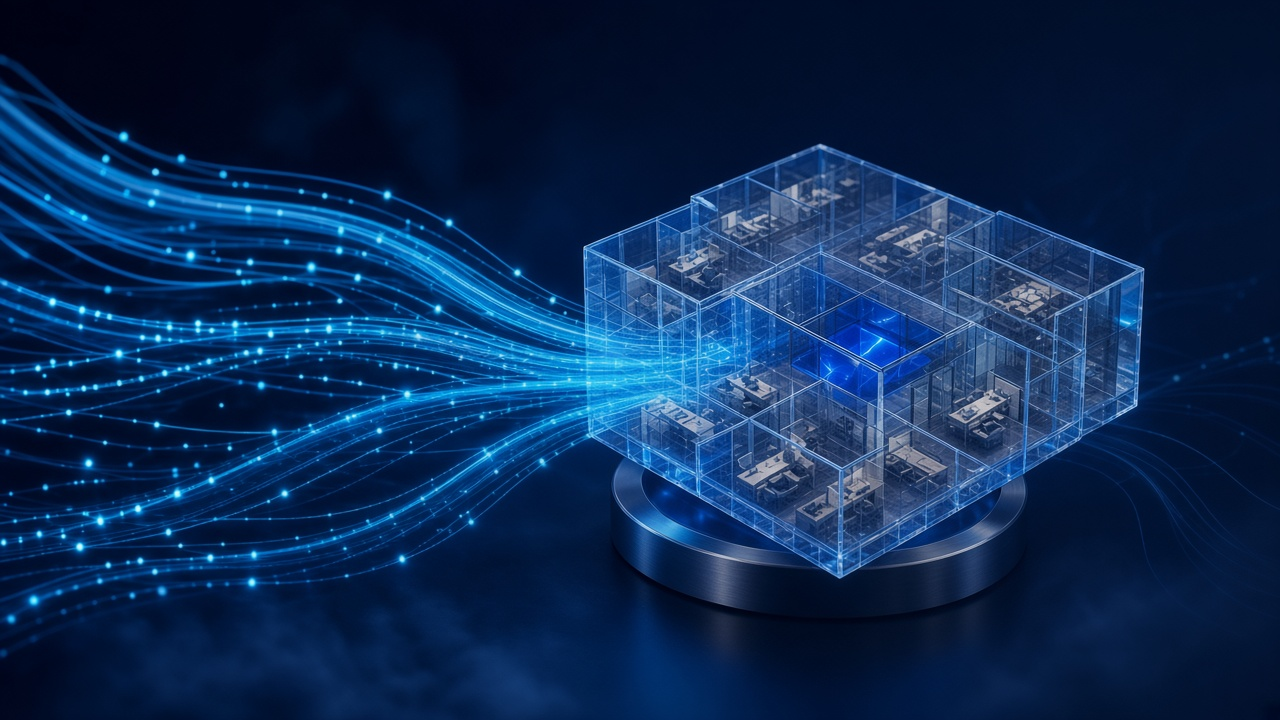
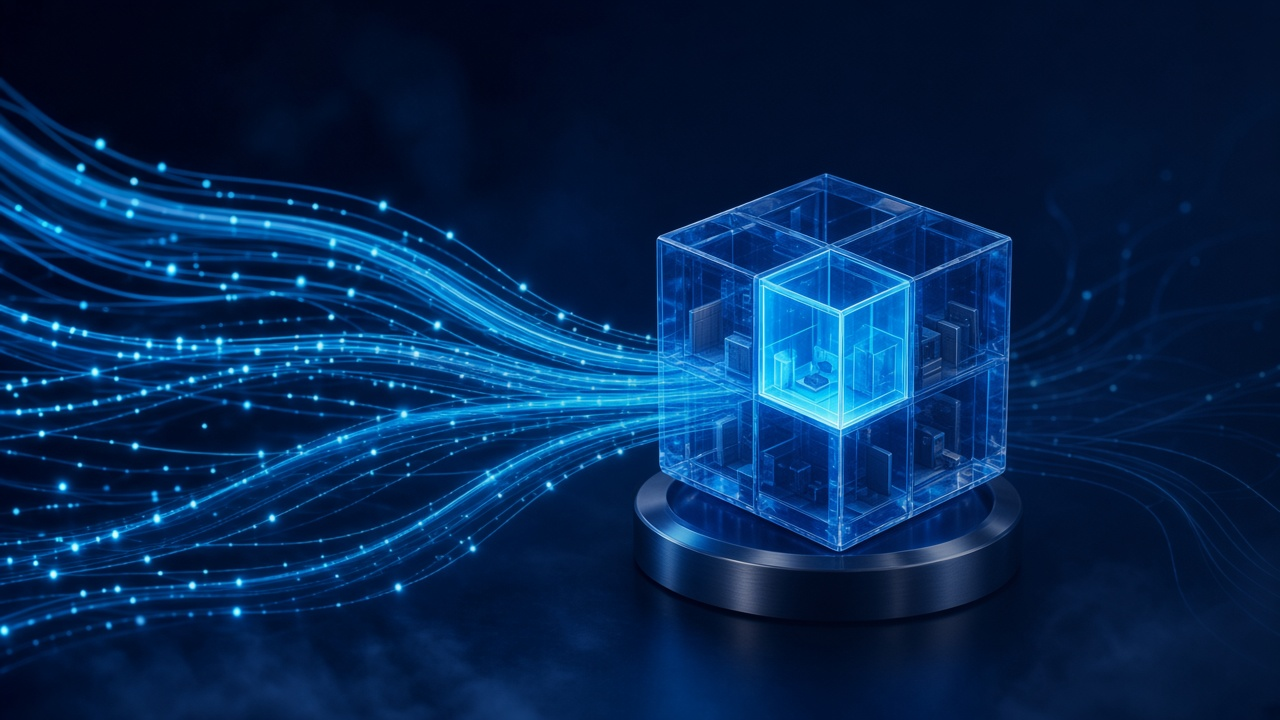
Update media assets in Approach component to use the correct image source. Enhance blog prompts and alt text for clarity, introducing a new marketing-focused description style. Add new images for approach, careers, and contact sections while updating existing blog images for consistency.

diff --git a/content/media.ts b/content/media.ts
@@ -1,14 +1,11 @@
 /**
  * Media assets for UI.
- * Replace `src` with the matching `path` file after ChatGPT generation.
- * Keep `prompt` as the generation source of truth; `path` is where to save.
+ * Marketing-stock aesthetic: clear subject, polished, readable ? not busy CGI.
  */
 
 export type MediaAsset = {
   id: string;
-  /** Current placeholder (remote or local) shown faded behind the prompt UI */
   src: string;
-  /** Canonical save path under /public (also the final src once ready) */
   path: string;
   poster?: string;
   prompt: string;
@@ -16,7 +13,16 @@ export type MediaAsset = {
 };
 
 const BRAND =
-  "Brand palette only: deep navy #051937, cyan #00D2FF, royal blue #1E60FF. No purple, no neon glow stacks, no logos, no readable brand names or UI text, no watermarks.";
+  "Brand accents only when needed: deep navy #051937, cyan #00D2FF, royal blue #1E60FF. No purple, no logos, no readable UI text, no watermarks.";
+
+const TEAM =
+  "Cast only young white American men ages ~25-32, clean-cut tech professionals. No women, no other ethnicities.";
+
+const MARKETING_PHOTO =
+  "Premium SaaS marketing stock photograph style like Stripe/Notion/Linear careers pages: bright modern office, soft natural light, sharp focus on subjects, clean background, clear readable scene, professional color grade. Not cinematic fog, not dark moody drama.";
+
+const MARKETING_ABSTRACT =
+  "Premium SaaS marketing illustration style: one clear hero object centered, simple readable metaphor, soft studio lighting on deep navy #051937, subtle cyan #00D2FF and royal #1E60FF accents, polished 3D, plenty of calm empty space. Clean and premium like Stripe/Linear marketing art ? NOT busy particle storms, NOT dense lattices, NOT empty lonely cubes.";
 
 export const media = {
   heroVideo: {
@@ -25,121 +31,121 @@ export const media = {
     path: "/media/heroes/hero-poster.jpg",
     poster:
       "https://images.unsplash.com/photo-1522071820081-009f0129c71c?auto=format&fit=crop&w=1920&q=80",
-    prompt: `Still poster frame, 16:9, for a TalentTekPro hero video. Pure cinematic 3D CGI motion graphics still: deep navy void #051937, luminous geometric core with a cyan #00D2FF wireframe icosahedron nested in a royal-blue #1E60FF glass nucleus, three thin orbital rings, constellation of linked nodes (talent network becoming delivery lattice). Depth fog, volumetric cyan rim light, soft particle dust. Left third darker and emptier for headline overlay; spectacle center-right. Elegant, premium, photoreal metal/glass materials. ${BRAND}`,
-    alt: "Abstract 3D talent-to-delivery orbital lattice for TalentTekPro.",
+    prompt: `Unused on site. ${BRAND}`,
+    alt: "Hero poster placeholder.",
   } satisfies MediaAsset,
   landing: {
     id: "landing",
     src: "/media/heroes/landing.png",
     path: "/media/heroes/landing.png",
-    prompt: `Editorial photoreal hero photograph, 16:9 (or taller crop-safe). Small diverse product squad collaborating around a laptop in a bright modern office with soft natural light and subtle cyan #00D2FF practical accents against deeper navy shadow #051937. Confident, senior, calm energy. Subjects mid-conversation, no staged handshake cliche. Space on the left for website headline overlay. Shallow depth of field, premium tech-company look. ${BRAND}`,
-    alt: "TalentTekPro teammates collaborating at a laptop in a bright office.",
+    prompt: `Premium SaaS marketing hero photograph, 16:9. Bright modern tech office. A beautiful young woman developer collaborating with two young male developers around one laptop. Soft natural light, clear faces, left third open for headline. No logos, no readable UI text. ${BRAND}`,
+    alt: "A woman developer collaborating with teammates at a laptop.",
   } satisfies MediaAsset,
   manifesto: {
     id: "manifesto",
     src: "/media/heroes/manifesto.jpg",
     path: "/media/heroes/manifesto.jpg",
-    prompt: `Editorial photograph, 16:9. Cross-functional workshop in a modern office: senior engineers and a hiring lead reviewing a laptop and whiteboard together. Soft cyan #00D2FF accent lighting, deep navy shadows #051937, shallow depth of field, cinematic grading. Confident collaborative mood, diverse professionals, documentary realism. ${BRAND}`,
-    alt: "Cross-functional workshop reviewing plans on a laptop and whiteboard.",
+    prompt: `${MARKETING_PHOTO} ${TEAM} Two young white American men reviewing a laptop at a clean whiteboard in a bright office. Clear, simple marketing stock composition. 16:9. ${BRAND}`,
+    alt: "Two young white American engineers reviewing a laptop.",
   } satisfies MediaAsset,
   approach: {
     id: "approach",
-    src: "https://images.unsplash.com/photo-1522071820081-009f0129c71c?auto=format&fit=crop&w=1600&q=80",
+    src: "/media/heroes/approach.jpg",
     path: "/media/heroes/approach.jpg",
-    prompt: `Editorial photograph, 3:2. Two professionals sharing a genuine high-five in a bright modern office after a milestone, collaborative energy, soft natural light mixed with subtle cyan #00D2FF accents, navy depth in background #051937. Photoreal, warm but premium, no staged stock smile. ${BRAND}`,
-    alt: "Teammates celebrating with a high-five in a bright office.",
+    prompt: `${MARKETING_PHOTO} ${TEAM} Two young white American men smiling and high-fiving in a bright modern office after a win. Clear simple stock photo. 16:9. ${BRAND}`,
+    alt: "Two young white American teammates celebrating with a high-five.",
   } satisfies MediaAsset,
   getStarted: {
     id: "get-started",
     src: "/media/heroes/get-started.jpg",
     path: "/media/heroes/get-started.jpg",
-    prompt: `Editorial photograph, 16:9. Enterprise leadership consultation in a deep navy conference room #051937, cyan #00D2FF and royal #1E60FF practical lights, people leaning over a shared screen, hopeful decisive mood, wide cinematic frame. ${BRAND}`,
-    alt: "Leadership consultation around a shared screen.",
+    prompt: `${MARKETING_PHOTO} ${TEAM} Two young white American men leaning over a laptop on a meeting table in a bright glass conference room. Clear, hopeful CTA photo. 16:9. ${BRAND}`,
+    alt: "Young white American teammates reviewing a laptop in a meeting room.",
   } satisfies MediaAsset,
   servicesHero: {
     id: "services-hero",
     src: "/media/heroes/services-hero.png",
     path: "/media/heroes/services-hero.png",
-    prompt: `Premium 3D CGI editorial illustration matching TalentTekPro blog covers: cinematic dark navy #051937 atmosphere, soft volumetric fog, photoreal glass and metal. A luminous translucent cyan crystalline core on a brushed metal pedestal, fed by flowing cyan fiber-optic light streams with bright data sparkles. Concept: talent network merging into delivery systems. No people, no text, no logos. ${BRAND}`,
-    alt: "A luminous cyan crystalline core fed by light streams on deep navy.",
+    prompt: `${MARKETING_ABSTRACT} Meaning: talent plus delivery. A single elegant glass sphere on the left connected by one clean cyan arc to a single royal-blue geometric module on the right ? two clear shapes, one connection. Soft studio light, deep navy background. 16:9. ${BRAND}`,
+    alt: "A glass sphere connected by a cyan arc to a royal-blue module.",
   } satisfies MediaAsset,
   processHero: {
     id: "process-hero",
     src: "/media/heroes/process-hero.jpg",
     path: "/media/heroes/process-hero.jpg",
-    prompt: `Documentary editorial photograph, 16:9. Client partnership strategy workshop around a wide table, laptops open, facilitator at a whiteboard, natural light mixed with cyan #00D2FF practical accents, navy depth #051937. Serious, calm, senior energy. ${BRAND}`,
-    alt: "Strategy workshop with laptops and whiteboard facilitation.",
+    prompt: `${MARKETING_PHOTO} ${TEAM} Three young white American men in a bright meeting room: two seated with laptops, one standing at a clean whiteboard. Clear marketing stock scene. 16:9. ${BRAND}`,
+    alt: "Young white American team in a bright strategy meeting.",
   } satisfies MediaAsset,
   aboutHero: {
     id: "about-hero",
     src: "/media/heroes/about-hero.jpg",
     path: "/media/heroes/about-hero.jpg",
-    prompt: `Editorial photograph, 16:9. Consulting session with enterprise leadership in a dark modern boardroom, teal glass reflection, cyan #00D2FF rim light, deep navy #051937 atmosphere, photoreal, composed and senior. ${BRAND}`,
-    alt: "Leadership consulting session in a modern boardroom.",
+    prompt: `${MARKETING_PHOTO} ${TEAM} Three young white American men in a bright modern boardroom around a table, talking calmly. Clear corporate marketing stock. 16:9. ${BRAND}`,
+    alt: "Young white American leaders in a bright boardroom.",
   } satisfies MediaAsset,
   careersHero: {
     id: "careers-hero",
-    src: "https://images.unsplash.com/photo-1522071820081-009f0129c71c?auto=format&fit=crop&w=1600&q=80",
+    src: "/media/heroes/careers-hero.jpg",
     path: "/media/heroes/careers-hero.jpg",
-    prompt: `Editorial photograph, 16:9. Engineering team collaborating in a bright-dark hybrid office, candid discussion at desks, teal/cyan ambient light #00D2FF, navy shadows #051937, diverse professionals, authentic workplace energy. ${BRAND}`,
-    alt: "Collaborative engineering team working together.",
+    prompt: `${MARKETING_PHOTO} ${TEAM} Three young white American men working together at standing desks in a bright open office. Clear friendly careers marketing photo. 16:9. ${BRAND}`,
+    alt: "Young white American engineers working together in a bright office.",
   } satisfies MediaAsset,
   blogHero: {
     id: "blog-hero",
     src: "/media/blog/journal-hero.png",
     path: "/media/blog/journal-hero.png",
-    prompt: `Editorial blog journal hero illustration, 16:9. Deep navy ink background #051937. Abstract field-notes concept: floating luminous pages and geometric research nodes connected by cyan #00D2FF filaments with royal blue #1E60FF accents, suggesting talent and delivery knowledge. Premium flat/editorial hybrid CGI. No people. ${BRAND}`,
-    alt: "Abstract journal field-notes illustration in navy, cyan, and royal blue.",
+    prompt: `${MARKETING_ABSTRACT} Meaning: journal / field notes. One soft luminous frosted page floating above one small cyan node cluster. Very clear, simple, premium. Deep navy background. 16:9. ${BRAND}`,
+    alt: "A single luminous page above a small cyan node cluster.",
   } satisfies MediaAsset,
   projectsHero: {
     id: "projects-hero",
     src: "/media/heroes/projects-hero.jpg",
     path: "/media/heroes/projects-hero.jpg",
-    prompt: `Premium 3D CGI editorial illustration matching TalentTekPro blog covers: cinematic dark navy #051937 atmosphere, soft fog, photoreal glass and metal. A luminous translucent cyan crystalline structure on a brushed metal pedestal with flowing cyan light filaments and data sparkles. Concept: portfolio of shipped systems. No people, no text, no logos. ${BRAND}`,
-    alt: "A luminous cyan crystalline portfolio core with light streams on deep navy.",
+    prompt: `${MARKETING_ABSTRACT} Meaning: portfolio. Three frosted glass portfolio cards floating in a neat row, soft cyan edge light, one card slightly forward with royal-blue accent. Clear, orderly, premium marketing art. Deep navy background. 16:9. ${BRAND}`,
+    alt: "Three frosted glass portfolio cards in a neat floating row.",
   } satisfies MediaAsset,
   contactHero: {
     id: "contact-hero",
-    src: "https://images.unsplash.com/photo-1497366216548-37526070297c?auto=format&fit=crop&w=1600&q=80",
+    src: "/media/heroes/contact-hero.jpg",
     path: "/media/heroes/contact-hero.jpg",
-    prompt: `Editorial photograph, 16:9. Calm reception desk in a modern tech office at night, soft cyan #00D2FF glow, welcoming empty space, deep navy #051937 atmosphere, quiet and premium. ${BRAND}`,
-    alt: "Modern office reception area at night.",
+    prompt: `${MARKETING_PHOTO} Bright modern office reception desk, empty and welcoming, soft daylight, clean architecture, cyan accent on a small desk lamp. No crowds. Clear contact marketing photo. 16:9. ${BRAND}`,
+    alt: "Bright welcoming office reception desk.",
   } satisfies MediaAsset,
   cases: [
     {
       id: "case-dating",
       src: "/media/cases/case-dating.png",
       path: "/media/cases/case-dating.png",
-      prompt: `Premium 3D CGI editorial illustration matching TalentTekPro blog covers: dark navy #051937, soft fog, photoreal glass/metal pedestal. Luminous translucent cyan crystalline twin-core with flowing cyan light streams and sparkles. Matching/connections theme. No people, no text, no logos. ${BRAND}`,
-      alt: "Twin luminous cyan crystalline cores linked by light streams on deep navy.",
+      prompt: `${MARKETING_ABSTRACT} Meaning: matching. Two soft glowing orbs connected by one clean cyan bridge to a shared center. Extremely clear, simple, premium. Deep navy. 16:9. ${BRAND}`,
+      alt: "Two glowing orbs connected by a cyan bridge.",
     },
     {
       id: "case-healthcare",
       src: "/media/cases/case-healthcare.png",
       path: "/media/cases/case-healthcare.png",
-      prompt: `Premium 3D CGI editorial illustration matching TalentTekPro blog covers: dark navy #051937, soft fog, photoreal glass/metal pedestal. Luminous translucent cyan crystalline shield-core with calm cyan light streams and sparkles. Healthcare ops theme. No people, no text, no logos. ${BRAND}`,
-      alt: "A luminous cyan crystalline shield-core with light streams on deep navy.",
+      prompt: `${MARKETING_ABSTRACT} Meaning: healthcare trust. One clear translucent shield shape with a soft cyan rim and calm royal-blue center glow. Simple and readable. Deep navy. 16:9. ${BRAND}`,
+      alt: "A clear translucent shield with a soft cyan rim.",
     },
     {
       id: "case-commerce",
       src: "/media/cases/case-commerce.png",
       path: "/media/cases/case-commerce.png",
-      prompt: `Premium 3D CGI editorial illustration matching TalentTekPro blog covers: dark navy #051937, soft fog, photoreal glass/metal pedestal. Luminous translucent cyan modular glass cube with cyan light streams and sparkles. Commerce theme. No people, no text, no logos. ${BRAND}`,
-      alt: "A luminous cyan modular crystalline cube with light streams on deep navy.",
+      prompt: `${MARKETING_ABSTRACT} Meaning: commerce. Three neat frosted product tiles in a clean shelf row, cyan edge light. Simple marketing product metaphor. Deep navy. 16:9. ${BRAND}`,
+      alt: "Three neat frosted product tiles in a shelf row.",
     },
     {
       id: "case-booking",
       src: "/media/cases/case-booking.png",
       path: "/media/cases/case-booking.png",
-      prompt: `Premium 3D CGI editorial illustration matching TalentTekPro blog covers: dark navy #051937, soft fog, photoreal glass/metal pedestal. Luminous translucent cyan isometric floorplan crystal with cyan light streams and sparkles. Booking theme. No people, no text, no logos. ${BRAND}`,
-      alt: "A luminous cyan floorplan crystal with light streams on deep navy.",
+      prompt: `${MARKETING_ABSTRACT} Meaning: booking. A simple isometric glass room with one chair, soft cyan outline, one corner lit royal blue as reserved. Clear and minimal. Deep navy. 16:9. ${BRAND}`,
+      alt: "A simple isometric glass room with one reserved corner lit.",
     },
     {
       id: "case-pipeline",
       src: "/media/cases/case-pipeline.png",
       path: "/media/cases/case-pipeline.png",
-      prompt: `Premium 3D CGI editorial illustration matching TalentTekPro blog covers: dark navy #051937, soft fog, photoreal glass/metal pedestal. Luminous translucent cyan route-arc core with cyan sensor light streams and sparkles. Pipeline inspection theme. No people, no text, no logos. ${BRAND}`,
-      alt: "A luminous cyan route-arc core with sensor light streams on deep navy.",
+      prompt: `${MARKETING_ABSTRACT} Meaning: pipeline. One clean curved cyan path with three small sensor dots ending at a royal-blue beacon. Very clear line art 3D. Deep navy. 16:9. ${BRAND}`,
+      alt: "A clean cyan path with sensor dots ending at a royal beacon.",
     },
   ] satisfies MediaAsset[],
 };
@@ -148,7 +154,6 @@ export function caseMedia(index: number): MediaAsset {
   return media.cases[index % media.cases.length];
 }
 
-/** Filename segment for UI labels (e.g. case-dating.png). */
 export function mediaFilename(asset: Pick<MediaAsset, "path">): string {
   return asset.path.split("/").pop() ?? asset.path;
 }

diff --git a/content/blog.ts b/content/blog.ts
@@ -1,7 +1,10 @@
 import type { MediaAsset } from "@/content/media";
 
 const BLOG_BRAND =
-  "Brand palette only: deep navy #051937, cyan #00D2FF, royal blue #1E60FF. No purple, no neon glow stacks, no logos, no readable brand names or UI text, no watermarks.";
+  "Brand accents: deep navy #051937, cyan #00D2FF, royal blue #1E60FF. No purple, no logos, no readable text, no watermarks.";
+
+const BLOG_MARKETING =
+  "Premium SaaS marketing illustration: one clear hero metaphor, soft studio light on deep navy, polished 3D, calm empty space. Clean like Stripe/Linear marketing art — not busy, not sparse empty cubes.";
 
 export type BlogPost = {
   slug: string;
@@ -64,8 +67,8 @@ export const blogPage = {
         id: "blog-production-rag-routing",
         src: "/media/blog/production-rag-routing.png",
         path: "/media/blog/production-rag-routing.png",
-        prompt: `Editorial illustration, 16:9. Abstract RAG routing lattice: cyan #00D2FF filaments scoring and routing queries through geometric gates toward a royal-blue #1E60FF decision core on deep navy #051937. Suggests model routing, evals, and fallbacks under load. ${BLOG_BRAND}`,
-        alt: "Abstract RAG routing lattice with cyan filaments and a royal-blue core.",
+        prompt: `${BLOG_MARKETING} Meaning: RAG routing. One cyan filament passing through two clear gates into a royal-blue core. Simple and readable. 16:9. ${BLOG_BRAND}`,
+        alt: "A cyan filament passing gates into a royal-blue core.",
       },
       tags: ["RAG", "Routing", "Evals", "Latency"],
       takeaways: [
@@ -121,8 +124,8 @@ export const blogPage = {
         id: "blog-scorecards-time-to-productivity",
         src: "/media/blog/scorecards-time-to-productivity.png",
         path: "/media/blog/scorecards-time-to-productivity.png",
-        prompt: `Editorial illustration, 16:9. Abstract hiring scorecard panels and signal nodes linked by cyan #00D2FF lines on deep navy #051937, royal #1E60FF accents marking ramp predictors. Calm, systems-thinking mood. ${BLOG_BRAND}`,
-        alt: "Abstract scorecard panels and signal nodes for hiring rubrics.",
+        prompt: `${BLOG_MARKETING} Meaning: hiring scorecards. Two frosted scorecard panels beside one upward royal-blue arrow. Clear and simple. 16:9. ${BLOG_BRAND}`,
+        alt: "Two scorecard panels beside an upward royal-blue arrow.",
       },
       tags: ["Scorecards", "Ramp", "Panels", "Rubrics"],
       takeaways: [
@@ -169,8 +172,8 @@ export const blogPage = {
         id: "blog-zero-downtime-deploys",
         src: "/media/blog/zero-downtime-deploys.png",
         path: "/media/blog/zero-downtime-deploys.png",
-        prompt: `Editorial illustration, 16:9. Abstract canary rollout rings and progressive deploy arcs in cyan #00D2FF and royal #1E60FF on deep navy #051937, suggesting zero-downtime promotion and rollback safety. ${BLOG_BRAND}`,
-        alt: "Abstract canary rollout rings suggesting zero-downtime deploys.",
+        prompt: `${BLOG_MARKETING} Meaning: zero-downtime deploys. Two nested soft cyan rings with one royal-blue check-mark glow. Clear and simple. 16:9. ${BLOG_BRAND}`,
+        alt: "Two nested cyan rings with a royal-blue success glow.",
       },
       tags: ["Kubernetes", "CI/CD", "Canaries", "Rollback"],
       takeaways: [
@@ -216,8 +219,8 @@ export const blogPage = {
         id: "blog-saas-mvp-to-scale",
         src: "/media/blog/saas-mvp-to-scale.png",
         path: "/media/blog/saas-mvp-to-scale.png",
-        prompt: `Editorial illustration, 16:9. Modular SaaS lattice growing from simple MVP blocks into a multi-tenant structure, cyan #00D2FF connectors and royal #1E60FF cores on deep navy #051937. ${BLOG_BRAND}`,
-        alt: "Modular SaaS lattice growing from MVP blocks to multi-tenant scale.",
+        prompt: `${BLOG_MARKETING} Meaning: SaaS scale. One small frosted block growing into three connected blocks. Clear growth metaphor. 16:9. ${BLOG_BRAND}`,
+        alt: "A small frosted block growing into three connected blocks.",
       },
       tags: ["NestJS", "Stripe", "PostHog", "Multi-tenant"],
       takeaways: [
@@ -263,8 +266,8 @@ export const blogPage = {
         id: "blog-staff-engineer-interviews",
         src: "/media/blog/staff-engineer-interviews.png",
         path: "/media/blog/staff-engineer-interviews.png",
-        prompt: `Editorial illustration, 16:9. Three abstract interview panels linked to a shared staff-level rubric node, cyan #00D2FF evidence threads and royal #1E60FF seniority markers on deep navy #051937. ${BLOG_BRAND}`,
-        alt: "Three abstract interview panels linked to a shared staff-level rubric.",
+        prompt: `${BLOG_MARKETING} Meaning: staff interviews. Three small panels pointing to one central rubric circle. Clear and simple. 16:9. ${BLOG_BRAND}`,
+        alt: "Three small panels pointing to one central rubric circle.",
       },
       tags: ["Staff+", "Panels", "Debriefs", "Senior bar"],
       takeaways: [
@@ -310,8 +313,8 @@ export const blogPage = {
         id: "blog-adr-first-delivery",
         src: "/media/blog/adr-first-delivery.png",
         path: "/media/blog/adr-first-delivery.png",
-        prompt: `Editorial illustration, 16:9. Abstract architecture decision slabs with cyan #00D2FF tradeoff branches and royal #1E60FF consequence nodes on deep navy #051937. Suggests ADRs living next to code. ${BLOG_BRAND}`,
-        alt: "Abstract architecture decision slabs with cyan tradeoff branches.",
+        prompt: `${BLOG_MARKETING} Meaning: architecture decisions. One frosted decision slab with two cyan branch paths. Clear ADR metaphor. 16:9. ${BLOG_BRAND}`,
+        alt: "One frosted decision slab with two cyan branch paths.",
       },
       tags: ["ADRs", "Embeds", "Tradeoffs", "Governance"],
       takeaways: [

diff --git a/components/home/Approach.tsx b/components/home/Approach.tsx
@@ -65,8 +65,8 @@ export function Approach() {
               </div>
               <div className="relative aspect-[16/10] overflow-hidden rounded-[1.5rem] shadow-[0_24px_60px_rgba(5,25,55,0.12)] md:rounded-[1.75rem] lg:col-span-6">
                 <SafeImage
-                  src={media.processHero.src}
-                  alt={media.processHero.alt}
+                  src={media.approach.src}
+                  alt={media.approach.alt}
                   fill
                   className="object-cover"
                 />
